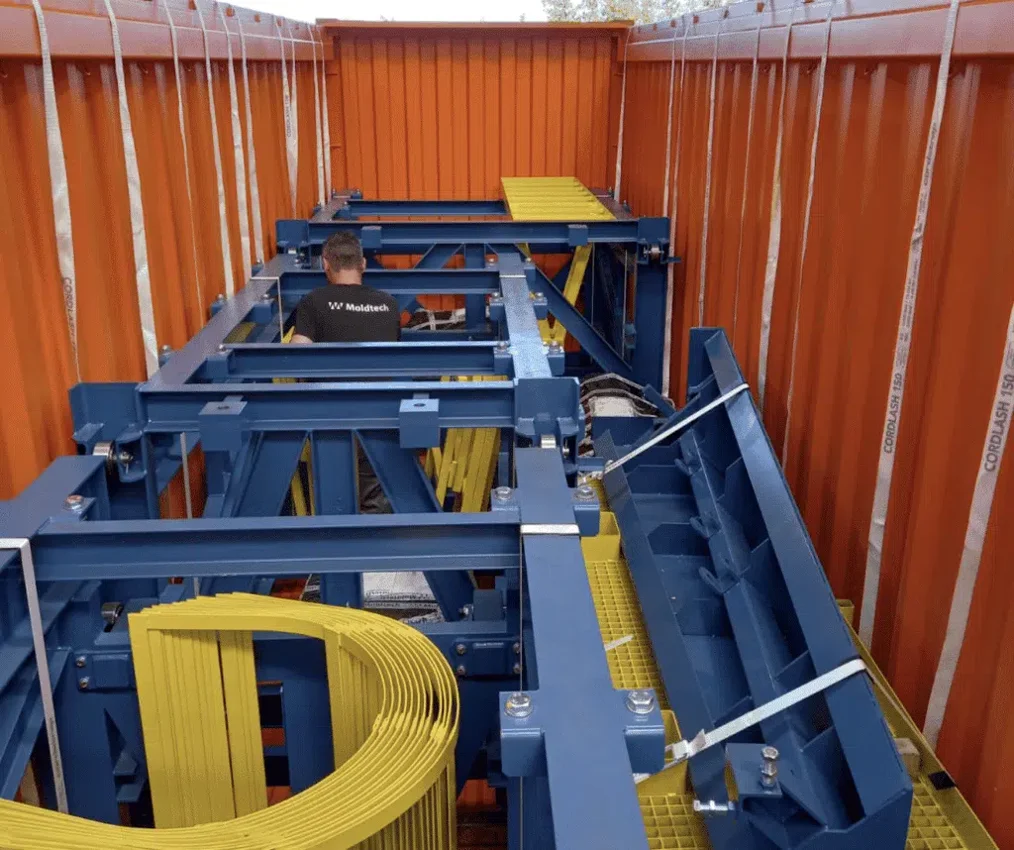
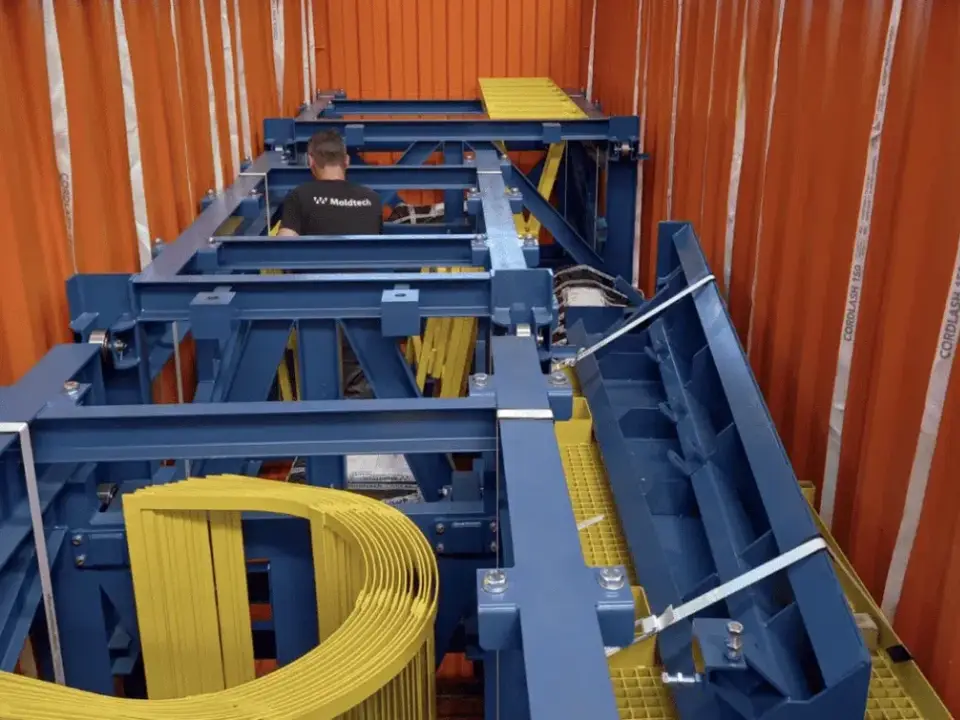
Publish user-replaced PPVC images and update image metadata

diff --git a/docs/ppvc-mic-image-replacement.md b/docs/ppvc-mic-image-replacement.md
@@ -1,22 +1,21 @@
-# PPVC / MiC 实拍示例图片替换说明
+# PPVC / MiC 图片替换说明
 
-本页图片均重新从公开网站检索、下载并逐张核对，没有继续使用网站原有素材占位。页面上的图片来源文字和链接已删除，原图文件未修改。这些是行业演示案例，不代表 Realjet 项目。
+当前 13 张图片由用户完成替换，上传时不修改原图。网页宽高属性与当前文件尺寸已同步，Alt 和工位图注已按新画面调整。页面不展示图片来源。
 
-所有图片位于 `public/images/ppvc-line/`。文件采用等比例 WebP 编码；五工位与质量展示区按原始比例显示，避免变形。替换为自有照片时，同步修改 `site/_data/ppvc.json` 中的 width、height、alt 和 caption。
+图片目录：`public/images/ppvc-line/`。后续按同名 WebP 文件替换；尺寸或内容变化时，同时更新 `site/_data/ppvc.json` 的宽高、Alt 和图注。
 
-| 页面文件 | 来源 | 图片尺寸 |
+| 页面位置 | 文件名 | 当前尺寸（宽 × 高） |
 |---|---|---|
-| `hero-panoramic-plant.webp` | [Moldtech](https://moldtechsl.es/en/projects/equipos-3d-de-moldtech-en-sri-lanka/) | 900 × 563 |
-| `bottleneck-precision.webp` | [Moldtech](https://moldtechsl.es/en/projects/equipos-3d-de-moldtech-en-sri-lanka/) | 960 × 600 |
-| `bottleneck-demoulding.webp` | [Moldtech](https://moldtechsl.es/en/projects/equipos-3d-de-moldtech-en-sri-lanka/) | 900 × 563 |
-| `bottleneck-handling.webp` | [Moldtech](https://moldtechsl.es/en/projects/equipos-3d-de-moldtech-en-sri-lanka/) | 900 × 563 |
-| `station-01-rebar-jig.webp` | [Moldtech](https://moldtechsl.es/en/projects/equipos-3d-de-moldtech-en-sri-lanka/) | 900 × 563 |
-| `station-02-hydraulic-core.webp` | [Moldtech](https://moldtechsl.es/en/projects/equipos-3d-de-moldtech-en-sri-lanka/) | 900 × 563 |
-| `station-03-curing-enclosure.webp` | [Curetec](https://curetecglobal.com/fully-automated-tent-curing-for-120-tonne-bridge-beams-in-western-australia/) | 840 × 400 |
-| `station-04-transfer-cart.webp` | [Moldtech](https://moldtechsl.es/en/projects/equipos-3d-de-moldtech-en-sri-lanka/) | 900 × 563 |
-| `station-05-fitout-assembly.webp` | [CCDC / CSCEC](https://chinaconstruction.cscec.com/zjny/en/kjcx/PPVC/) | 881 × 525 |
-| `qa-gantry-milling.webp` | [Groupe CMA](https://cma-machining-group.com/Gantry-Milling-Machine.html) | 800 × 501 |
-| `qa-laser-tracker.webp` | [VMT](https://vmt.global/tunnelling/en/precast/) | 1024 × 589 |
-| `qa-global-shipping.webp` | [Moldtech](https://moldtechsl.es/en/business/services/) | 1014 × 850 |
-
-原始图片直链与出处记录在 `docs/ppvc-mic-image-sources.json`。`og-plant.webp` 是首页示例图片的 1200 × 630 社交分享画布，未拉伸原图。
+| 首屏背景 | `hero-panoramic-plant.webp` | 1600 × 1000 |
+| 链接分享封面 | `og-plant.webp` | 1200 × 630 |
+| 瓶颈：精度 | `bottleneck-precision.webp` | 960 × 640 |
+| 瓶颈：脱模 | `bottleneck-demoulding.webp` | 960 × 640 |
+| 瓶颈：转运 | `bottleneck-handling.webp` | 960 × 640 |
+| 工位 01：钢筋笼 | `station-01-rebar-jig.webp` | 960 × 640 |
+| 工位 02：浇筑 | `station-02-hydraulic-core.webp` | 960 × 640 |
+| 工位 03：养护 | `station-03-curing-enclosure.webp` | 960 × 640 |
+| 工位 04：脱模转运 | `station-04-transfer-cart.webp` | 960 × 640 |
+| 工位 05：装配 | `station-05-fitout-assembly.webp` | 960 × 640 |
+| 质量：机加工 | `qa-gantry-milling.webp` | 960 × 720 |
+| 质量：尺寸检测 | `qa-laser-tracker.webp` | 960 × 720 |
+| 质量：装运 | `qa-global-shipping.webp` | 960 × 720 |

diff --git a/docs/ppvc-mic-production-line.md b/docs/ppvc-mic-production-line.md
@@ -12,7 +12,7 @@ Submission confirms success inline, matching the standard enquiry experience. Th
 
 ## Photography and layout
 
-All hero, bottleneck, station and QA photos are newly sourced online industry examples. See `docs/ppvc-mic-image-replacement.md` and the machine-readable source manifest. Visible source credits and links have been removed at the user’s request; original photo pixels remain unchanged. Provenance is retained in the internal source manifest. The imagery is for the user-requested demonstration, not evidence of Realjet installations.
+The user has replaced all 13 page and social-card image files. They are uploaded unchanged. Intrinsic image dimensions, alt text and station captions match the new files. Visible photo-source credits remain removed; the asset manifest records these as user-supplied replacements rather than attributing them to the previous online references.
 
 The three bottleneck cards use photographs instead of SVG drawings. Station images use 39% of the desktop layout, with a 440 px maximum width and natural aspect ratio; text uses 61%. The old fixed 430/455/760 px station minimum heights were removed. QA image frames use 4:3 with `object-fit: contain`, preserving the full original photo without stretching or cropping. All images have intrinsic width/height values matching their actual files.
 
